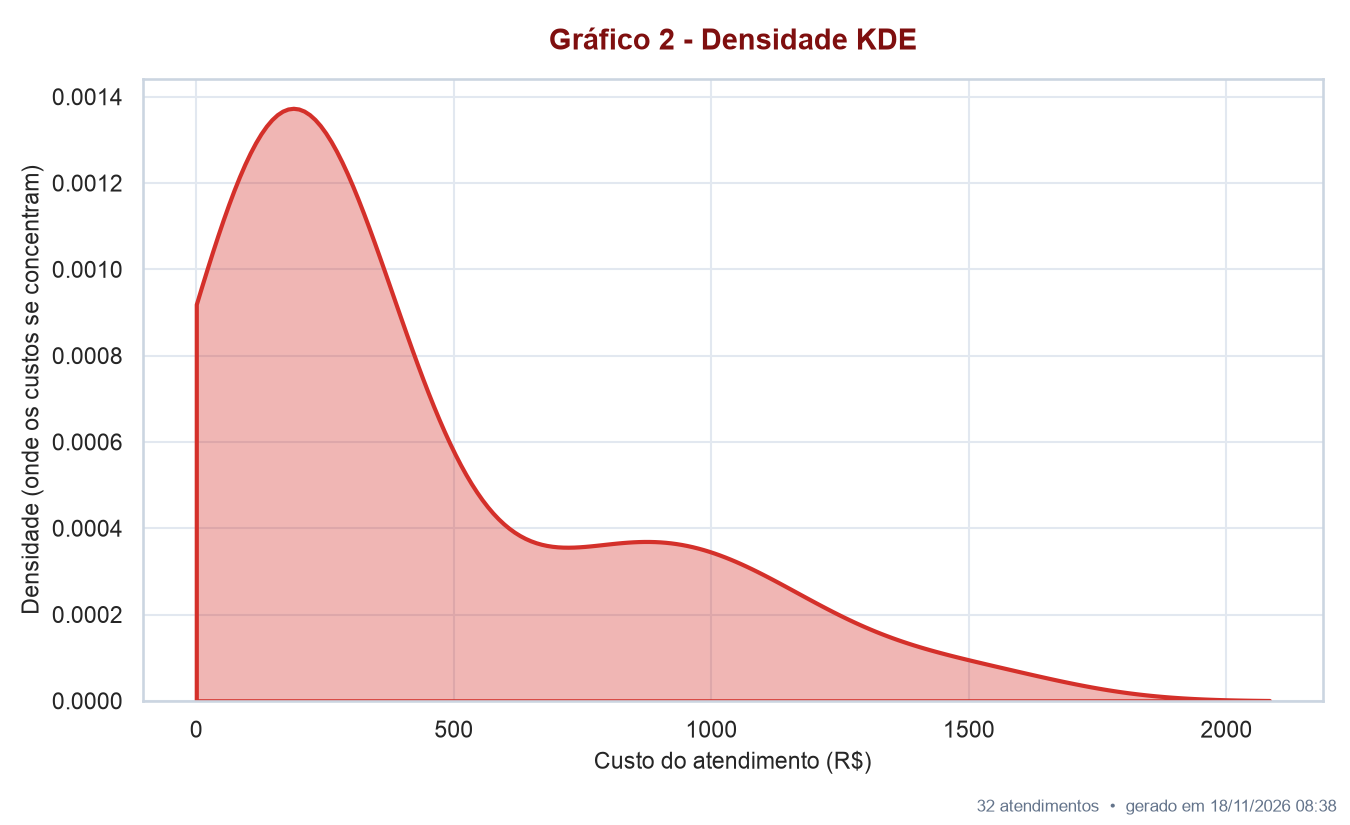
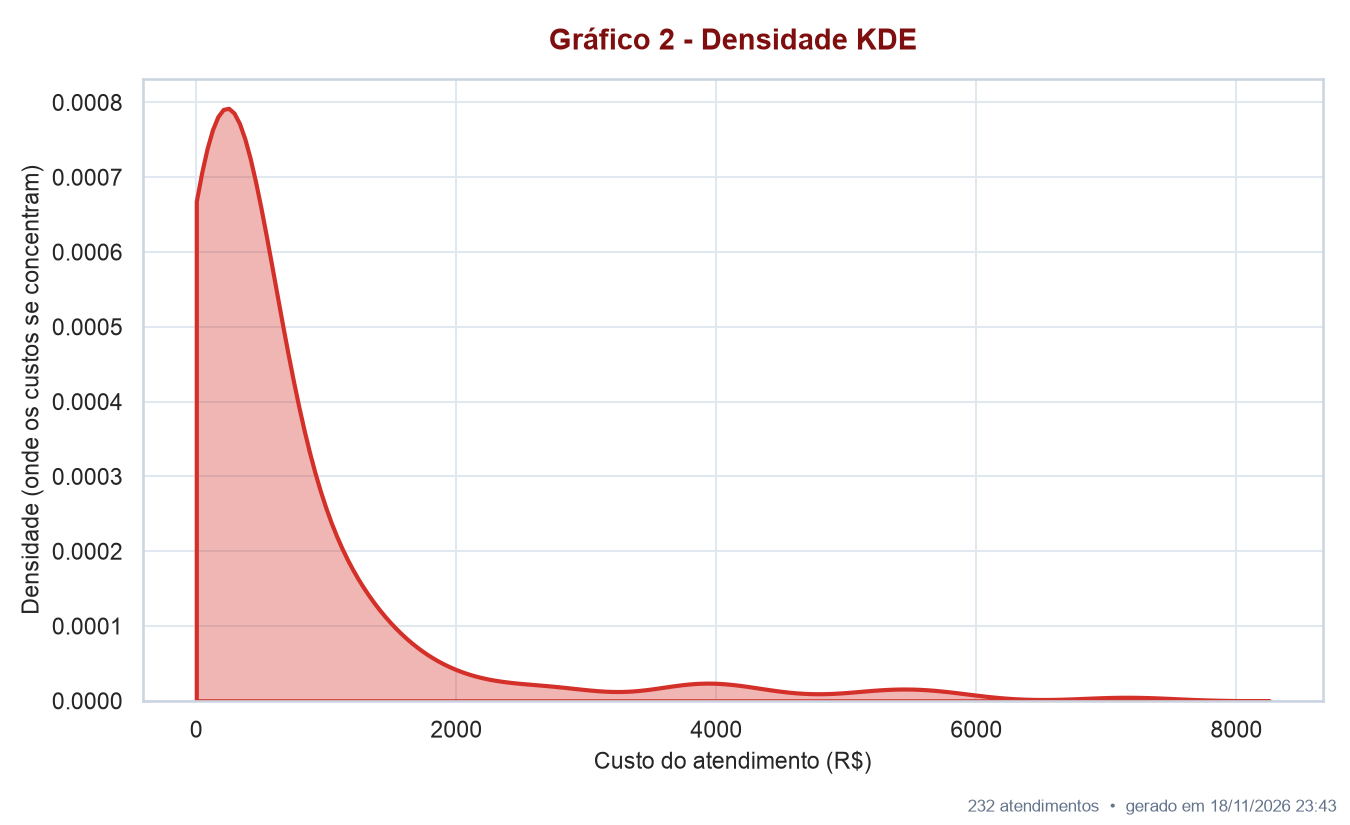
Limpando código e atualizando gráficos com novos dados

diff --git a/src/Main.java b/src/Main.java
@@ -39,11 +39,9 @@ public class Main extends JFrame {
 
     private static final Locale PT_BR = Locale.forLanguageTag("pt-BR");
 
-    // ---------- Campos do CRUD ----------
     private JTextField txtDonoCpf, txtDonoNome, txtDonoTelefone, txtDonoCidade, txtDonoRua, txtDonoBairro, txtDonoNumero;
     private JTextField txtAnimalCodigo, txtAnimalNome, txtAnimalEspecie, txtAnimalRaca, txtAnimalIdade, txtAnimalDia, txtAnimalMes, txtAnimalAno, txtAnimalSexo, txtAnimalCpfDono;
 
-    // ---------- Consultas ----------
     private final DefaultTableModel modeloTabela = modeloSomenteLeitura();
     private final JLabel lblResultados = Tema.textoSuave(" ");
     private Tema.Botao btnExecutarConsulta;
@@ -105,7 +103,7 @@ public class Main extends JFrame {
             "SELECT * FROM vw_Presricoes_Detalhadas"
     };
 
-    // ---------- Dashboard: descrição de cada gráfico estático ----------
+
     private static final String[] GRAFICOS_DESCRICAO = {
             "Quantos atendimentos caíram em cada faixa de custo. As linhas marcam a média (tracejada) e a mediana.",
             "Curva suave da distribuição dos custos: os picos mostram onde os valores mais se concentram.",
@@ -115,13 +113,10 @@ public class Main extends JFrame {
             "Junta boxplot, histograma e curva de densidade no mesmo eixo, com média e mediana marcadas."
     };
 
-    // ---------- BI interativo (Streamlit) ----------
     private static final int PORTA_BI = 8501;
     private volatile Process processoBI;
 
-    // ---------- Início: últimos atendimentos ----------
-    // Ordena pelo código (maior = mais recente). Se a tabela tiver uma coluna de data,
-    // troque o ORDER BY por ela (ex.: ORDER BY a.Data DESC).
+
     private static final String SQL_RECENTES =
             "SELECT a.Codigo AS Codigo, an.Nome AS Animal, d.Nome AS Dono, f.Nome AS Veterinario, " +
                     "a.Diagnostico AS Diagnostico, a.Nivel_de_Gravidade AS Gravidade, a.Custo AS Custo " +
@@ -134,23 +129,21 @@ public class Main extends JFrame {
     private final DefaultTableModel modeloRecentes = modeloSomenteLeitura();
     private final JLabel lblRecentes = Tema.textoSuave(" ");
 
-    // ---------- Dashboard ----------
     private final List<JLabel> lblsClientes = new ArrayList<>();
     private final List<JLabel> lblsAnimais = new ArrayList<>();
     private final List<JLabel> lblsAtendimentos = new ArrayList<>();
     private final List<JLabel> lblsMedia = new ArrayList<>();
 
-    // ---------- Estado da conexão ----------
     private final Tema.IndicadorStatus statusBanco = new Tema.IndicadorStatus();
-    private Boolean bancoOnline = null;     // null = ainda não verificado
-    private int versaoIndicadores = 0;      // descarta respostas antigas
+    private Boolean bancoOnline = null;
+    private int versaoIndicadores = 0;
 
-    // ---------- Navegação ----------
+
     private static final String[] IDS = {"inicio", "crud", "consultas", "procedures", "dashboard"};
     private static final String[] MENU = {"Início", "Gestão (CRUD)", "Consultas e Views", "Procedures", "Dashboard"};
     private static final Tema.Icone[] ICONES = {Tema.Icone.INICIO, Tema.Icone.CADASTRO,
             Tema.Icone.CONSULTAS, Tema.Icone.PROCEDURES, Tema.Icone.DASHBOARD};
-    // O índice 0 (Início) não exibe cabeçalho: a própria tela já tem a faixa de boas-vindas.
+
     private static final String[] TITULOS = {
             "Início",
             "Gestão de Donos e Animais",
@@ -164,7 +157,7 @@ public class Main extends JFrame {
             "Execute procedures armazenadas diretamente do sistema.",
             "Indicadores gerais e gráficos de distribuição dos atendimentos."};
 
-    // Menu lateral (recolhível)
+
     private static final int LARGURA_ABERTA = 270;
     private static final int LARGURA_FECHADA = 84;
     private final List<Tema.BotaoMenu> botoesMenu = new ArrayList<>();
@@ -205,21 +198,19 @@ public class Main extends JFrame {
         add(direita, BorderLayout.CENTER);
 
         registrarAtalhos();
-        navegar(0); // já dispara atualizarIndicadores()
+        navegar(0);
 
-        // Reverifica a conexão de tempos em tempos (e recarrega os dados quando ela volta)
+
         new javax.swing.Timer(15000, e -> verificarConexao()).start();
 
-        // Se este app iniciou o BI, desliga o servidor ao fechar a janela
+
         Runtime.getRuntime().addShutdownHook(new Thread(() -> {
             Process p = processoBI;
             if (p != null) p.destroy();
         }));
     }
 
-    // =====================================================================
-    //  Estrutura: sidebar + cabeçalho
-    // =====================================================================
+
     private JPanel criarSidebar() {
         sidebar = new JPanel(new BorderLayout());
         sidebar.setBackground(Color.WHITE);
@@ -327,15 +318,11 @@ public class Main extends JFrame {
         botoesMenu.get(i).setSelected(true);
         lblTitulo.setText(TITULOS[i]);
         lblSubtitulo.setText(SUBTITULOS[i]);
-        cabecalho.setVisible(i != 0); // o Início não repete título/subtítulo
+        cabecalho.setVisible(i != 0);
         if (i == 0 || i == 4) atualizarIndicadores();
     }
 
-    // =====================================================================
-    //  Atalhos de teclado
-    //    Cmd/Ctrl + 1..5 : trocar de tela      Cmd/Ctrl + B : abrir/fechar menu
-    //    F5              : executar consulta (Consultas) ou atualizar dados (Início/Dashboard)
-    // =====================================================================
+
     private void registrarAtalhos() {
         int mod = Toolkit.getDefaultToolkit().getMenuShortcutKeyMaskEx();
         InputMap im = getRootPane().getInputMap(JComponent.WHEN_IN_FOCUSED_WINDOW);
@@ -364,9 +351,7 @@ public class Main extends JFrame {
         };
     }
 
-    // =====================================================================
-    //  0. Início
-    // =====================================================================
+
     private JPanel criarPainelInicio() {
         JPanel painel = Tema.painel(new BorderLayout(0, 22));
         // Sem cabeçalho nesta tela, então o respiro do topo vem daqui
@@ -470,9 +455,7 @@ public class Main extends JFrame {
         for (JLabel l : labels) l.setText(texto);
     }
 
-    // =====================================================================
-    //  1. CRUD
-    // =====================================================================
+
     private JPanel criarPainelCRUD() {
         JPanel principal = Tema.painel(new GridLayout(1, 2, 20, 0));
 
@@ -662,9 +645,7 @@ public class Main extends JFrame {
         return cartao;
     }
 
-    // =====================================================================
-    //  2. Consultas e Views
-    // =====================================================================
+
     private JPanel criarPainelConsultas() {
         JPanel painel = Tema.painel(new BorderLayout(0, 18));
 
@@ -947,9 +928,7 @@ public class Main extends JFrame {
                 + ". Para dados em tempo real, use o BI.";
     }
 
-    // =====================================================================
-    //  BI interativo (Streamlit): inicia o servidor e abre o navegador
-    // =====================================================================
+
     private static boolean biRodando() {
         try (Socket s = new Socket()) {
             s.connect(new InetSocketAddress("localhost", PORTA_BI), 300);
@@ -1008,7 +987,7 @@ public class Main extends JFrame {
                                 + "python3 -m venv .venv  •  source .venv/bin/activate  •  pip install -r requirements.txt";
                     }
 
-                    // Espera o servidor responder (até ~30 s)
+
                     for (int i = 0; erro == null && i < 60 && !biRodando(); i++) {
                         if (!processoBI.isAlive()) {
                             erro = "O BI foi encerrado ao iniciar. Últimas linhas do log:\n\n" + fimDoLog(log);
@@ -1052,15 +1031,12 @@ public class Main extends JFrame {
         return card;
     }
 
-    // =====================================================================
-    //  Estado da conexão
-    // =====================================================================
+
     private void definirStatusBanco(boolean ok) {
         bancoOnline = ok;
         statusBanco.setEstado(ok ? Tema.IndicadorStatus.Estado.ONLINE : Tema.IndicadorStatus.Estado.OFFLINE);
     }
 
-    /** Teste leve de conexão. Se o banco voltou depois de estar fora, recarrega os dados. */
     private void verificarConexao() {
         executarAsync(
                 () -> {
@@ -1077,9 +1053,7 @@ public class Main extends JFrame {
                 c -> { });
     }
 
-    // =====================================================================
-    //  Acesso a dados
-    // =====================================================================
+
     private static final class DadosTabela {
         final List<String> colunas = new ArrayList<>();
         final List<Object[]> linhas = new ArrayList<>();
@@ -1168,7 +1142,6 @@ public class Main extends JFrame {
         }
     }
 
-    /** Lê todo o ResultSet para memória (pode rodar fora da thread da interface). */
     private static DadosTabela lerResultSet(ResultSet rs) throws SQLException {
         DadosTabela d = new DadosTabela();
         ResultSetMetaData meta = rs.getMetaData();
@@ -1182,7 +1155,6 @@ public class Main extends JFrame {
         return d;
     }
 
-    /** Aplica os dados ao modelo (chamar apenas na thread da interface). */
     private static void aplicarNaTabela(DefaultTableModel modelo, DadosTabela d) {
         modelo.setDataVector(d.linhas.toArray(new Object[0][]), d.colunas.toArray());
     }
@@ -1193,14 +1165,7 @@ public class Main extends JFrame {
         };
     }
 
-    // =====================================================================
-    //  Execução em segundo plano
-    // =====================================================================
 
-    /**
-     * Roda a tarefa fora da thread da interface. O aviso de "carregando" só aparece se a
-     * tarefa demorar mais de 250 ms, para não piscar em consultas rápidas.
-     */
     private <T> void executarAsync(Callable<T> tarefa, Consumer<T> sucesso,
                                    Consumer<Exception> falha, Consumer<Boolean> carregando) {
         javax.swing.Timer atraso = new javax.swing.Timer(250, e -> carregando.accept(true));
@@ -1231,11 +1196,8 @@ public class Main extends JFrame {
         setCursor(ocupado ? Cursor.getPredefinedCursor(Cursor.WAIT_CURSOR) : Cursor.getDefaultCursor());
     }
 
-    // =====================================================================
-    //  Exportação CSV
-    // =====================================================================
 
-    /** CSV com ';' como separador e UTF-8 com BOM: abre direto no Excel em português. */
+
     private void exportarCSV(DefaultTableModel modelo, String nomeSugerido) {
         JFileChooser fc = new JFileChooser();
         fc.setDialogTitle("Exportar resultado para CSV");

diff --git a/app_bi.py b/app_bi.py
@@ -1,10 +1,3 @@
-"""
-VetCare BI - painel interativo (Streamlit + Plotly)
-
-Como rodar (na raiz do projeto, onde fica o config.properties):
-    pip install -r requirements.txt
-    streamlit run app_bi.py
-"""
 import math
 import os
 import re
@@ -45,9 +38,6 @@ GRUPOS = {"Nenhum": None, "Espécie": "Especie", "Gravidade": "Gravidade",
 st.set_page_config(page_title="VetCare BI", page_icon="🐾", layout="wide")
 
 
-# =====================================================================
-#  Acesso ao banco (usa o mesmo config.properties do app Java)
-# =====================================================================
 def ler_config() -> dict:
     cfg = {}
     if os.path.exists(CONFIG_PATH):
@@ -85,7 +75,7 @@ def get_engine():
 
 SQL_ATENDIMENTOS = """
 SELECT a.Codigo AS Atendimento, a.Custo, a.Diagnostico, a.Nivel_de_Gravidade AS Gravidade,
-       a.Status, a.Dia AS DiaAt, a.Mes AS MesAt, a.Ano AS AnoAt, a.Horario,
+       a.Atendimento_TIPO, a.Status, a.Dia AS DiaAt, a.Mes AS MesAt, a.Ano AS AnoAt, a.Horario,
        an.Codigo AS CodAnimal, an.Nome AS Animal, an.Especie, an.Raca, an.Idade, an.Sexo,
        d.Nome AS Dono, d.Cidade, f.Nome AS Veterinario
 FROM Atendimento a
@@ -114,6 +104,11 @@ def preparar(df: pd.DataFrame) -> pd.DataFrame:
 
     for col in ["Especie", "Raca", "Gravidade", "Diagnostico", "Veterinario", "Cidade", "Status", "Sexo"]:
         df[col] = df[col].fillna("Não informado").astype(str)
+
+    if "Atendimento_TIPO" in df.columns:
+        rotina = (df["Gravidade"] == "Não informado") & (pd.to_numeric(df["Atendimento_TIPO"], errors="coerce") == 1)
+        df.loc[rotina, "Gravidade"] = "Rotina"
+
     return df
 
 

diff --git a/gerar_graficos.py b/gerar_graficos.py
@@ -1,12 +1,3 @@
-"""
-Gera os 6 gráficos estáticos exibidos no Dashboard do app Java (pasta graficos/).
-
-Uso (com o ambiente virtual ligado):
-    python gerar_graficos.py
-
-Os gráficos vêm SEMPRE do banco de dados. Se o banco não responder, nada é gerado
-(nenhum dado fictício é criado) e os gráficos antigos continuam como estavam.
-"""
 import math
 import os
 import re
